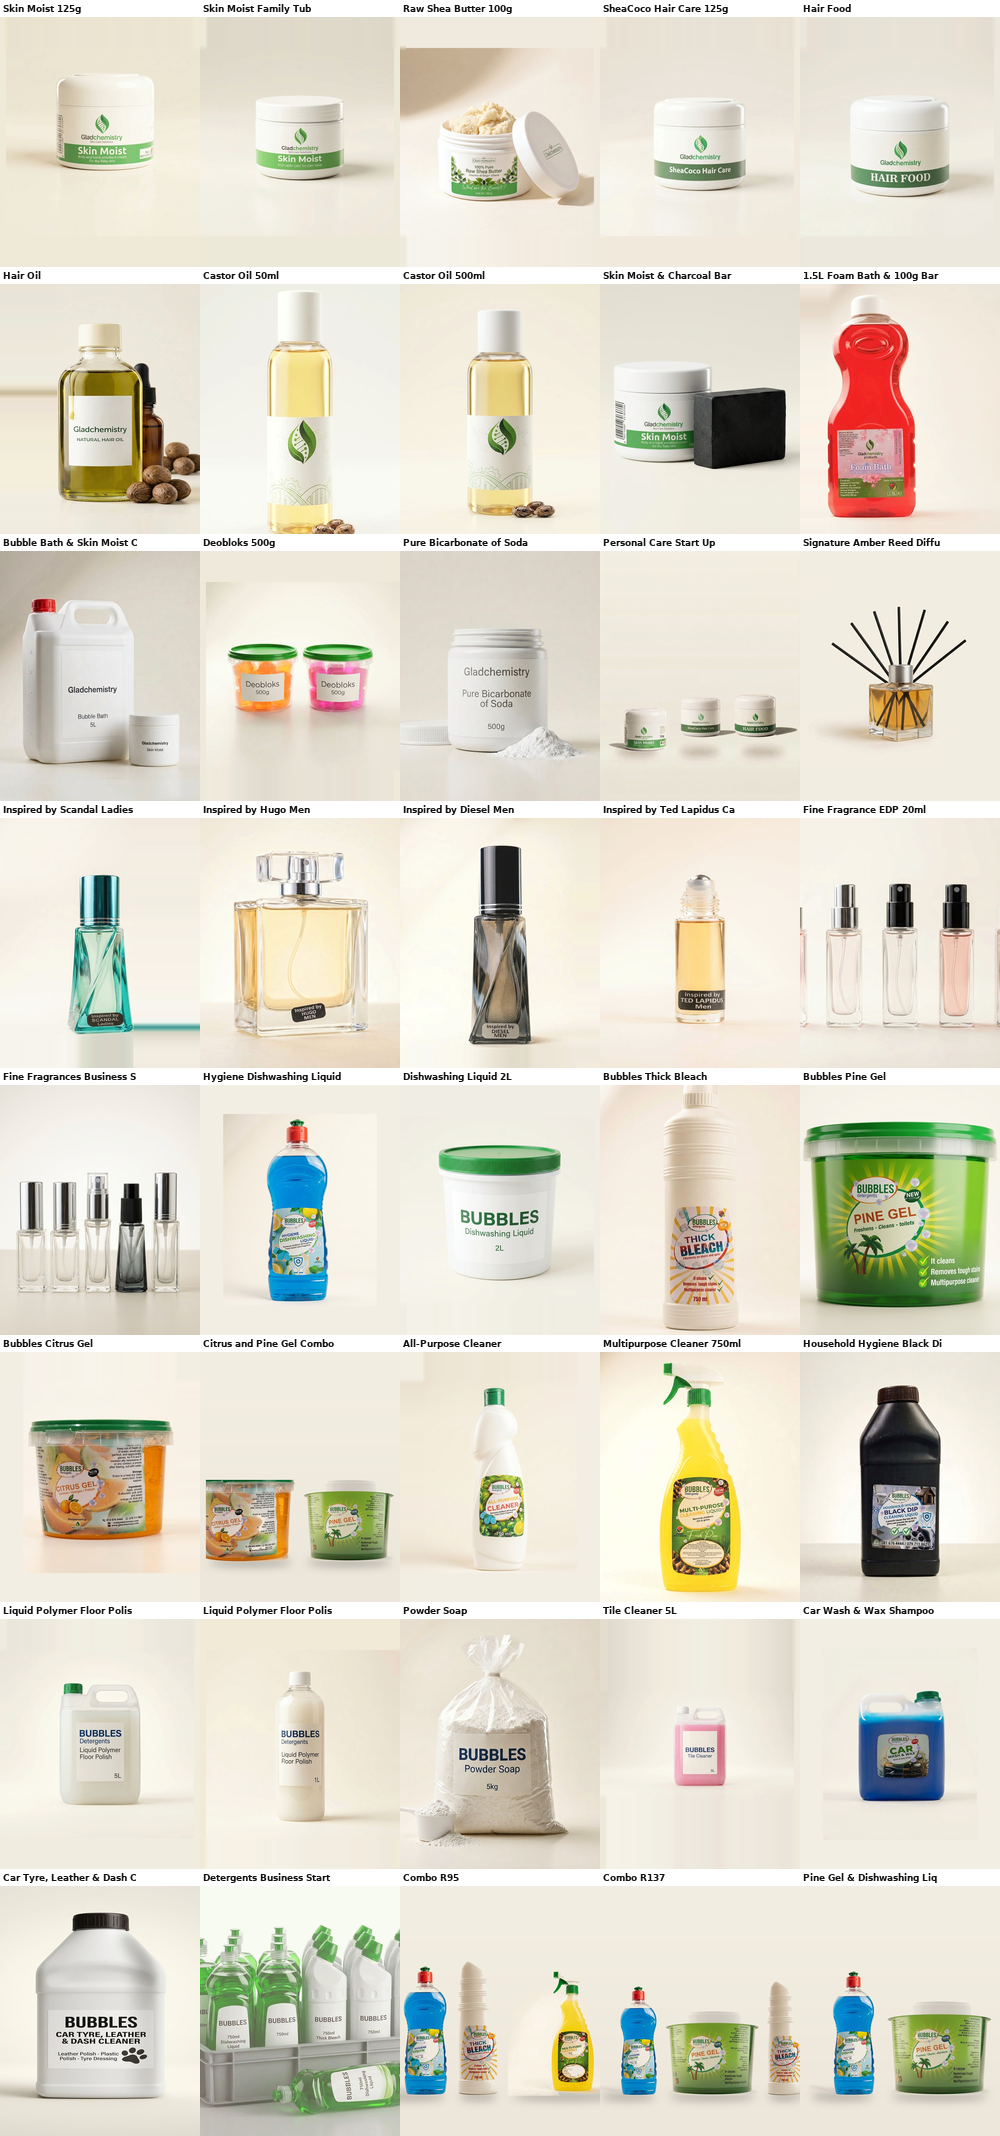
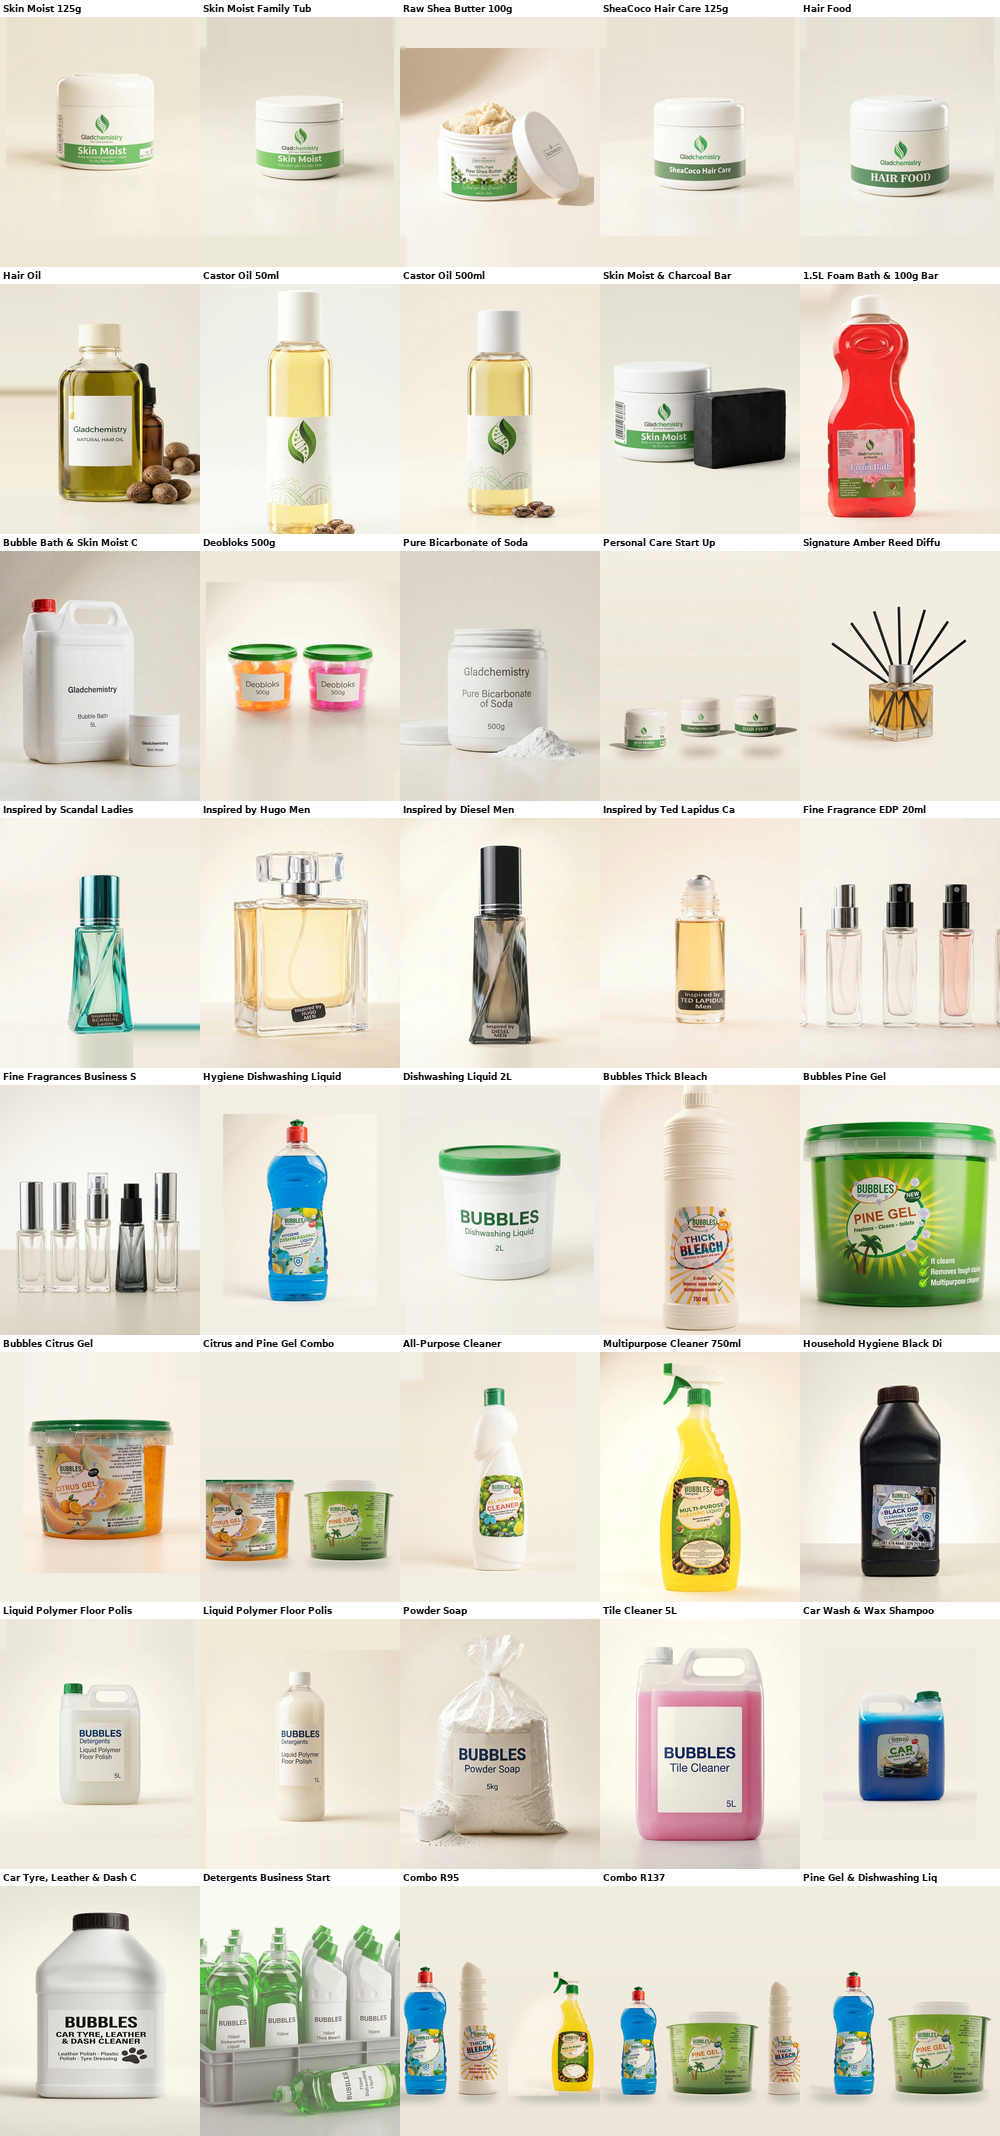
Close the Tile Cleaner gap left open by the image-budget limit
The previous pass disclosed Tile Cleaner 5L as unfinished when the image
generation budget ran out. Disclosing it was not the same as closing it.

Reviewing the true original showed it did not need generation at all: it is
already a clean studio photograph with a proper sweep. It needed framing and
a paper-tone match.

  - reframed from public/images/products/bubbles-tile-cleaner-5l.jpg at 70%
    fill, whole jerrycan, breathing room above the handle and below the base
  - per-image grade of the neutral-grey sweep to the house paper tone,
    applied through a soft paper-likeness mask so the pink liquid, the white
    label and the navy "BUBBLES" type keep their own colour (verified at 1:1)

No other product touched. No global crop, colour or resize.

verify-frames.mjs: 40 products checked, 0 problem(s)
tsc -b clean; vite build 727ms

Changed region(s): [[0.589, 0.7416, 0.806, 0.8961]]

diff --git a/src/data/products.ts b/src/data/products.ts
@@ -504,7 +504,7 @@ export const PRODUCTS: Product[] = [
     category: 'Floor Care',
     price: 155,
     size: '5L',
-    image: '/images/frames/bubbles-tile-cleaner-5l.221b5b20.jpg',
+    image: '/images/frames/bubbles-tile-cleaner-5l.5e7c5aa7.jpg',
     imageRole: 'photo',
     preMessage: 'For all tile types',
     description:

diff --git a/docs/GLADCHEMISTRY-ASSET-AUDIT.md b/docs/GLADCHEMISTRY-ASSET-AUDIT.md
@@ -43,7 +43,7 @@ claim otherwise anywhere.
 - **COMPOSITION FAILURE**: right packaging, wrong framing — scale, centring, clipping, plate boundary, seam.
 - **SOURCE REQUIRED**: no accurate original exists in the repo. Left intact rather than fabricated.
 
-**Totals: 32 PASS · 2 BRANDING FAILURE corrected · 5 COMPOSITION FAILURE corrected · 1 PASS with reservation (SOURCE-limited)**
+**Totals: 32 PASS · 2 BRANDING FAILURE corrected · 6 COMPOSITION FAILURE corrected · 1 PASS with reservation (SOURCE-limited)**
 
 ---
 
@@ -84,7 +84,7 @@ claim otherwise anywhere.
 | 31 | Liquid Polymer Floor Polish 5L | Bubbles | `bubbles-floor-polish-5l.jpg` | `bubbles-floor-polish-lg.…jpg` | PASS — Correct | Real BUBBLES / Liquid Polymer Floor Polish / 5L | Clean | Centred, level | Seamless | None | Unchanged |
 | 32 | Liquid Polymer Floor Polish 1L | Bubbles | *(1L sibling of the 5L photo)* | `bubbles-floor-polish-1l.…jpg` | PASS — Correct | Real label, correct "1L" | Clean | Slightly right, acceptable | Seamless | None | Unchanged |
 | 33 | Powder Soap 5kg | Bubbles | `bubbles-powder-soap-5kg.jpg` | **`bubbles-powder-soap.5b4579b7.jpg`** | **COMPOSITION FAILURE → corrected** | Real printed label — BUBBLES, Powder Soap, 5kg | Clean | Was cropped at the neck and lost scale | Was a rectangular plate with hard vertical boundaries | **Re-rendered from the original**, full bag incl. tied neck, scoop retained, 4:5 | **PASS** |
-| 34 | Tile Cleaner 5L | Bubbles | `bubbles-tile-cleaner-5l.jpg` | `bubbles-tile-cleaner-5l.221b5b20.jpg` | PASS with reservation | Real BUBBLES / Tile Cleaner / 5L | Clean | Small in frame at 44 % fill; base near lower edge | Seam repaired | Margin seam extension only | **PASS** |
+| 34 | Tile Cleaner 5L | Bubbles | `bubbles-tile-cleaner-5l.jpg` | **`bubbles-tile-cleaner-5l.5e7c5aa7.jpg`** | **COMPOSITION FAILURE → corrected** | Real BUBBLES / Tile Cleaner / 5L, navy type intact | Clean | Was 44 % fill, small and low in frame; base near the lower edge | Was a cool neutral-grey sweep against the warm house paper, plus a soft vertical edge at the left | **Reframed from the true original at 70 % fill, whole jerrycan with breathing room; per-image paper grade to the house tone, applied to paper pixels only — the label, the pink liquid and the navy type are untouched** | **PASS** |
 | 35 | Car Wash & Wax Shampoo | Bubbles | *(car-care range photo)* | `bubbles-car-wash-wax.…jpg` | PASS — Correct | Real CAR / WASH & WAX label | Clean | Centred, level | Seamless | None | Unchanged |
 | 36 | Car Tyre, Leather & Dash Cleaner | Bubbles | `bubbles-car-tyre-real.jpg` | `bubbles-car-interior.…jpg` | PASS — Correct | Real CAR TYRE, LEATHER & DASH CLEANER label | Clean | Centred, level, 5L jug | Seamless | None — earlier off-centre measurement was the jug's moulded handle, not a fault | Unchanged |
 | 37 | Detergents Business Start Up | Bubbles | `bubbles-detergents-startup.jpg` | `bubbles-detergents-startup.…jpg` | PASS — Correct | Real BUBBLES bottles throughout | Clean | Crate composition, deliberate, edges tight but intact | Seamless | None | Unchanged |
@@ -96,7 +96,7 @@ claim otherwise anywhere.
 
 ## 4. Images modified
 
-Eight frames changed. Each entry gives the previous path and the new path; the
+Nine frames changed. Each entry gives the previous path and the new path; the
 hash suffix is the MD5 prefix of the bytes actually shipped, so a filename that
 passes `verify-frames.mjs` is a filename whose content hash matches.
 
@@ -108,7 +108,7 @@ passes `verify-frames.mjs` is a filename whose content hash matches.
 | Bubbles Thick Bleach | `bubbles-thick-bleach.f09b5611.jpg` | `bubbles-thick-bleach.1cbbb548.jpg` | Base clipped by the frame; hard plate boundary and vertical band down the left | Re-rendered from the verified-alpha original; whole bottle, level base, seamless sweep |
 | Powder Soap 5kg | `bubbles-powder-soap.aeaadec1.jpg` | `bubbles-powder-soap.5b4579b7.jpg` | Tied neck cropped; rectangular plate with hard vertical boundaries | Re-rendered from the original; full bag and scoop; 4:5 |
 | Bubbles Black Dip | `bubbles-black-dip.ef897d48.jpg` | `bubbles-black-dip.32bd5a21.jpg` | Visible rectangular photograph boundary; excessive margins; skewed base | Re-rendered preserving the real bottle and label; upright, level, breathing room |
-| Tile Cleaner 5L | `bubbles-tile-cleaner-5l.28c1d73e.jpg` | `bubbles-tile-cleaner-5l.221b5b20.jpg` | Plate seam in the right margin | Margin seam extension — zero in-plate pixels changed |
+| Tile Cleaner 5L | `bubbles-tile-cleaner-5l.28c1d73e.jpg` | `bubbles-tile-cleaner-5l.5e7c5aa7.jpg` | Under-scaled at 44 % fill with a cool grey sweep that fought the warm house paper | Reframed from the true original at 70 % fill; per-image paper grade to the house tone on paper pixels only |
 
 Two further frames were repaired **in place by margin extension only**
 (`bubbles-all-purpose-cleaner`, `bubbles-citrus-gel`): a pasted-paper seam in
@@ -124,8 +124,8 @@ or background replacement was applied to them.
 for edit. In particular the earlier attempt to re-crop ten goods, deobloks,
 hair-oil-family frames for "scale" was **reverted in full** — the tighter crops
 clipped caps and jars, which is a worse defect than generous margin. The baseline
-for this pass is commit `d931e15`; after reverting, 32 frames are byte-identical
-to that commit and 8 differ as listed above.
+for this pass is commit `d931e15`; after reverting, 31 frames are byte-identical
+to that commit and 9 differ as listed above.
 
 ---
 
@@ -135,10 +135,11 @@ to that commit and 8 differ as listed above.
   carries a plain white panel with no printed label artwork. There is nothing
   accurate to restore, and painting a label onto it would be invention. **Left
   intact.** A real photograph of the labelled 5L Bubble Bath is needed.
-- **Tile Cleaner 5L** — correct and readable, but at 44 % fill it sits smaller in
-  the grid than its siblings. Re-rendering was attempted; the image-generation
-  budget for this pass ran out before it completed. Its seam defect is fixed and
-  it is otherwise sound.
+- ~~**Tile Cleaner 5L**~~ — **closed.** This item was left open when the image
+  budget ran out mid-pass. On review the original photograph was already a clean
+  studio shot with a proper sweep, so no generation was needed: it has been
+  reframed from the true original and warmed to the house paper tone. Nothing is
+  outstanding for it now.
 
 No product was classified SOURCE REQUIRED for a missing original — an accurate
 original exists in `public/images/products/` for every corrected item.
